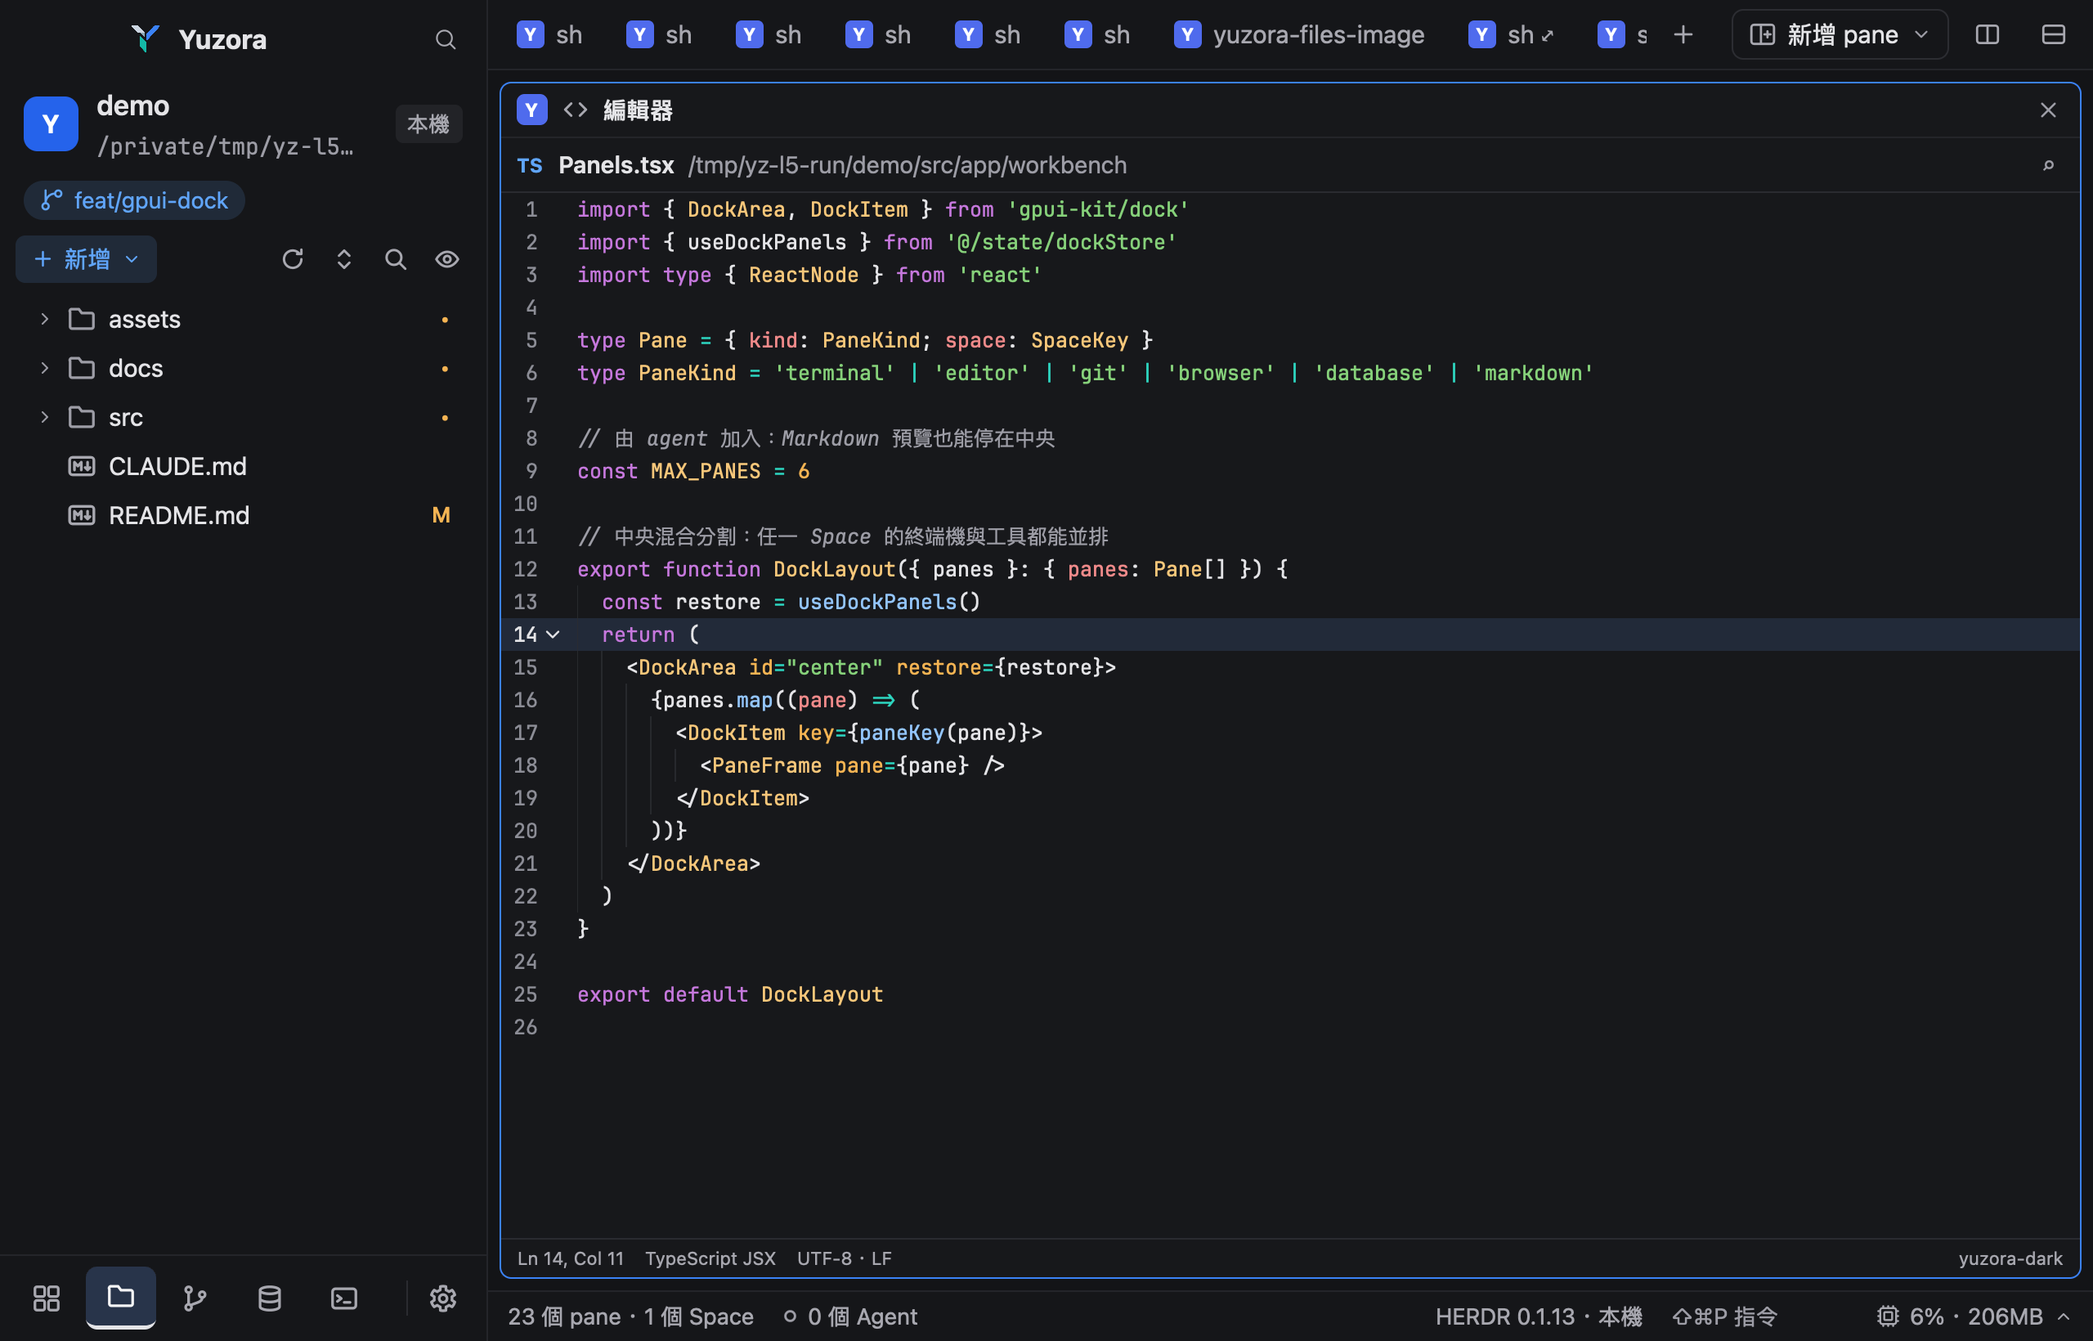
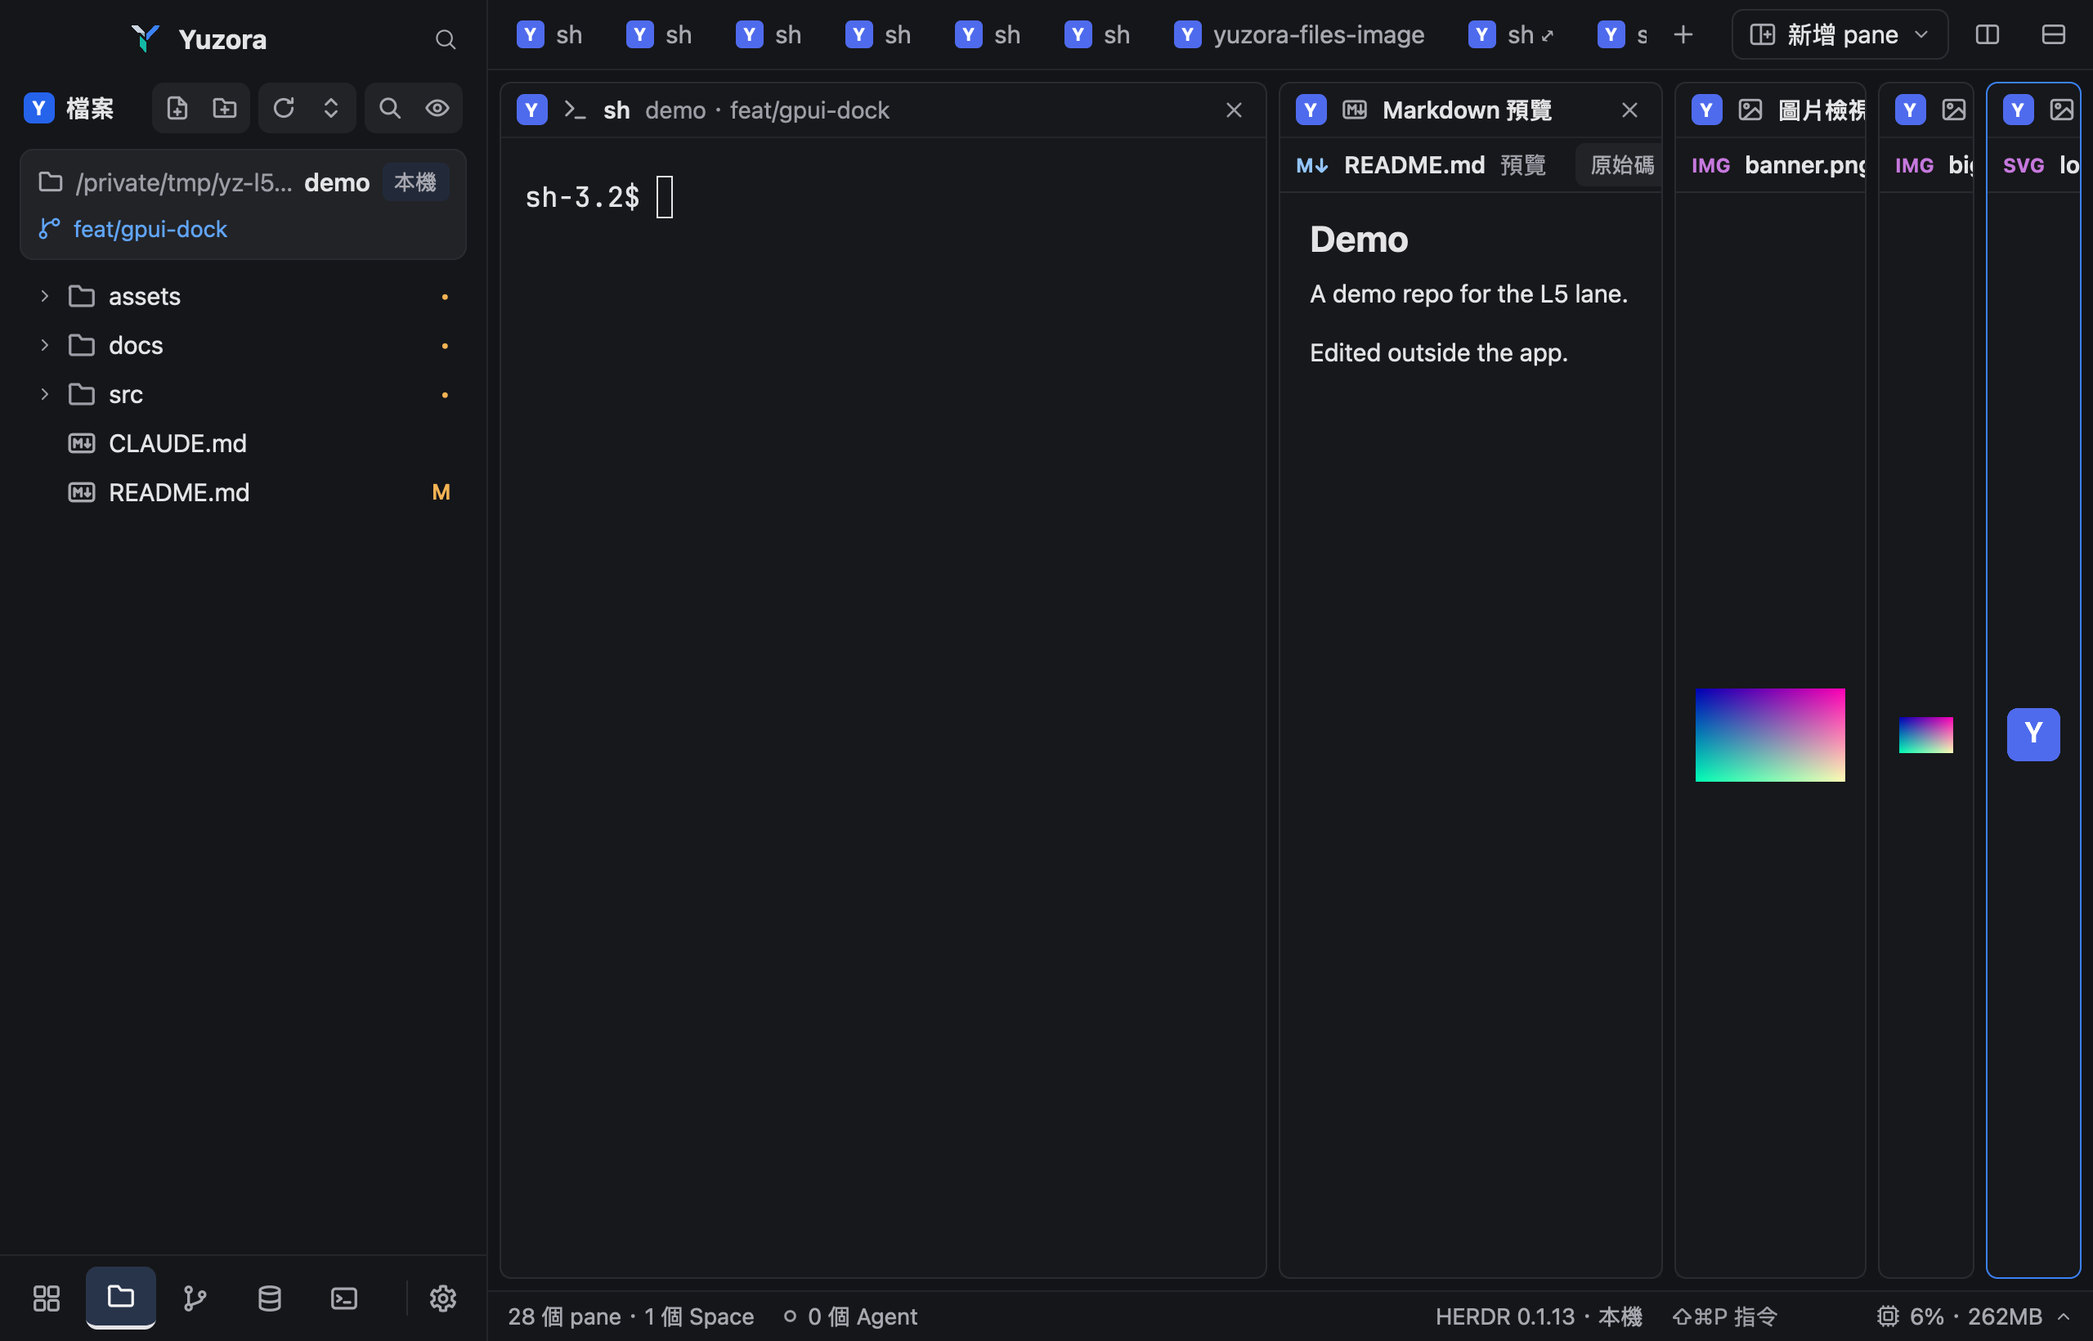
feat(yuzora-files): head the Files sidebar with a path card
B1 replaces design D (93853ce3): the actions join the title row and the
folder sits in a card below it.

- Title row: the 16px Space badge and "Files" (truncated first when the
  sidebar narrows), then six 24px icon buttons in three raised pairs:
  new file | new folder, refresh | collapse, search | hidden files. No
  background until hovered; a toggle that is on is selected. On another
  machine new file and new folder are disabled and the tooltip says
  remote is read-only in this version.
- Path card (raised, 1px border, radius 7): folder icon, the folder
  above (dim, ending in its separator, shrinks first) and the folder's
  name (semibold), the Local/machine chip on hover; the branch in the
  accent on a second line, gone without a branch. paths.js heading()
  now returns dir with its trailing separator.
- No new token: D's accent_soft is removed. both_yuzora_themes_read_at_
  wcag_aa checks the card's text explicitly (dim, foreground and accent
  on raised; muted on hover).
- i18n back to title, action.new_file and action.new_folder; D's
  action.new is gone.

Evidence l5-20 (dark) and l5-21 (light), retaken.

diff --git a/app/defaults/mods/yuzora-sidebar-files/main.js b/app/defaults/mods/yuzora-sidebar-files/main.js
@@ -3,7 +3,7 @@
 // The same mod opens itself as the right-click popup (props().menu).
 import { View, div, svg, uniform_list } from "gpui-kit";
 import { v_flex, h_flex, InputState, Input, Scrollbar } from "gpui-base";
-import { spaces, panes, focused, theme, settings, run, home, props, openOverlay, closeOverlay, shared, setShared, notify, watchFolder, window } from "herdr";
+import { spaces, panes, focused, theme, run, home, props, openOverlay, closeOverlay, shared, setShared, notify, watchFolder, window } from "herdr";
 import { t, tokens } from "yuzora:core";
 import { listDir, gitStatus, createFile, createFolder, rename, trash, reveal, copyText, findFiles, grep, unsavedCount } from "yuzora:files";
 import { openFile, moved, join, parent, base, rel } from "./open.js";
@@ -326,50 +326,51 @@ export default class FilesSidebar extends View {
     const badges = tk.space_badges ?? ["#4f6bed"];
     const badgeBg = space ? badges[(space.index - 1) % badges.length] : badges[0];
     const local = !here?.on;
-    // The folder's name over the folder it's in; "~" only on this machine.
-    const head = here?.root ? heading(here.root, local ? home() : null, here.branch) : null;
-    const mono = String(settings().font_family ?? "");
-    // Icon buttons: no background until hovered; a toggle that's on is selected.
-    const action = (id, icon, label, onClick, on = false) =>
-      div().id(id).w(24).h(24).flex().items_center().justify_center().rounded(5).flex_none().cursor_pointer()
-        .bg(on ? th.selected : "#00000000").text_color(on ? th.foreground : th.muted)
-        .hover(s => s.bg(on ? th.selected : th.hover).text_color(th.foreground)).on_click(onClick)
+    // Icon buttons in pairs on a raised strip: no background until hovered; a toggle that's on is selected.
+    const action = (id, icon, label, onClick, on = false, enabled = true) =>
+      div().id(id).w(24).h(24).flex().items_center().justify_center().rounded(5).flex_none()
+        .bg(on ? th.selected : "#00000000").text_color(enabled ? (on ? th.foreground : th.muted) : th.dim)
+        .when(enabled, el => el.cursor_pointer().hover(s => s.bg(on ? th.selected : th.hover).text_color(th.foreground)).on_click(onClick))
         .tooltip(label)
         .child(svg(`mods/${ME}/icons/${icon}.svg`).size(14));
-    // New file or folder, in the accent; off on another machine (read-only there).
+    const pair = (a, b) => h_flex().flex_none().p(1).rounded(6).bg(th.raised).child(a).child(b);
+    // New files and folders: off on another machine (read-only there), which the tooltip says.
     const canAdd = local && Boolean(here?.root);
-    const add = h_flex().id("new").h(24).px(8).gap(5).flex_none().items_center().rounded(5).text_size(12)
-      .when(canAdd, el => el.bg(tk.accent_soft).text_color(th.accent).cursor_pointer().hover(s => s.bg(th.selected))
-        .on_click(() => this.openNewMenu()))
-      .when(!canAdd, el => el.text_color(th.dim))
-      .when(!local, el => el.tooltip(t("remote.readonly")))
-      .child(svg("mods/workspace-chrome/plus.svg").size(12).flex_none())
-      .child(t("action.new"))
-      .child(svg("mods/workspace-chrome/chevron-down.svg").size(10).flex_none());
+    const addTip = label => (local ? label : t("remote.readonly"));
+    // The folder above (shrinks first) and the folder's own name; "~" only on this machine.
+    const head = here?.root ? heading(here.root, local ? home() : null, here.branch) : null;
     return v_flex().id("root").size_full().min_h(0).bg(th.chrome).text_color(th.foreground).text_size(12.5)
-      .child(h_flex().flex_none().pt(2).px(12).gap(9).items_center()
-        .child(div().w(28).h(28).flex_none().rounded(7).bg(badgeBg).text_color(tk.text.on_badge).text_size(13).font_bold().flex().items_center().justify_center()
+      .child(h_flex().flex_none().pt(2).px(12).gap(6).items_center()
+        .child(div().w(16).h(16).flex_none().rounded(4).bg(badgeBg).text_color(tk.text.on_badge).text_size(10).font_bold().flex().items_center().justify_center()
           .child((space?.name ?? "?").slice(0, 1).toUpperCase()))
-        .child(v_flex().flex_1().min_w(0).gap(1)
-          .child(div().text_size(14).font_semibold().truncate().child(head?.name ?? ""))
-          .when(Boolean(head?.dir), el => el.child(div().text_size(11.5).when(Boolean(mono), d => d.font_family(mono)).text_color(th.dim).truncate().child(head.dir))))
-        .child(div().flex_none().px(6).py(1).rounded(4).bg(th.raised).text_size(11).text_color(th.muted)
-          .child(local ? t("local") : here.on)))
-      .when(Boolean(head?.branch), el => el.child(h_flex().flex_none().pt(8).px(12)
-        .child(h_flex().h(20).min_w(0).px(8).gap(5).items_center().rounded_full().bg(tk.accent_soft).text_color(th.accent).text_size(11.5)
+        .child(div().flex_1().min_w(0).truncate().font_semibold().child(t("title")))
+        .child(h_flex().flex_none().gap(4)
+          .child(pair(
+            action("new-file", "new-file", addTip(t("action.new_file")), (_e, cx) => this.startEdit("new-file", null, this.selectedDir(), cx), false, canAdd),
+            action("new-folder", "new-folder", addTip(t("action.new_folder")), (_e, cx) => this.startEdit("new-folder", null, this.selectedDir(), cx), false, canAdd)))
+          .child(pair(
+            action("refresh", "refresh", t("action.refresh"), (_e, cx) => { this.reload(cx); cx.notify(); }),
+            action("collapse", "collapse", t("action.collapse"), (_e, cx) => this.collapse(cx))))
+          .child(pair(
+            action("search", "search", t("action.search"), (_e, cx) => this.toggleSearch(cx), this.searching),
+            action("hidden", "eye", t("action.hidden"), (_e, cx) => {
+              this.hidden = !this.hidden; localStorage.setItem("hidden", this.hidden ? "1" : "0"); this.version++;
+              if (this.searching) this.search(cx);
+              cx.notify();
+            }, this.hidden)))))
+      .when(Boolean(head), el => el.child(v_flex().flex_none().mt(8).mx(10).mb(6).py(6).px(8).gap(4).rounded(7)
+        .bg(th.raised).border_1().border_color(th.border)
+        .child(h_flex().gap(6).items_center().min_w(0)
+          .child(svg(`mods/${ME}/icons/files/folder.svg`).size(14).flex_none().text_color(th.muted))
+          .child(h_flex().flex_1().min_w(0).items_center()
+            .when(Boolean(head.dir), row => row.child(div().min_w(0).flex_shrink(100).truncate().text_color(th.dim).child(head.dir)))
+            .child(div().min_w(0).truncate().font_semibold().child(head.name)))
+          .child(div().flex_none().px(6).py(1).rounded(4).bg(th.hover).text_size(11).text_color(th.muted)
+            .child(local ? t("local") : here.on)))
+        .when(Boolean(head.branch), card => card.child(h_flex().gap(6).items_center().min_w(0).text_size(11.5).text_color(th.accent)
           .child(svg("mods/workspace-chrome/git-branch.svg").size(13).flex_none())
-          .child(div().min_w(0).truncate().child(head.branch)))))
-      .child(h_flex().flex_none().gap(2).px(8).pt(8).pb(6).items_center()
-        .child(add)
-        .child(div().flex_1())
-        .child(action("refresh", "refresh", t("action.refresh"), (_e, cx) => { this.reload(cx); cx.notify(); }))
-        .child(action("collapse", "collapse", t("action.collapse"), (_e, cx) => this.collapse(cx)))
-        .child(action("search", "search", t("action.search"), (_e, cx) => this.toggleSearch(cx), this.searching))
-        .child(action("hidden", "eye", t("action.hidden"), (_e, cx) => {
-          this.hidden = !this.hidden; localStorage.setItem("hidden", this.hidden ? "1" : "0"); this.version++;
-          if (this.searching) this.search(cx);
-          cx.notify();
-        }, this.hidden)))
+          .child(div().min_w(0).truncate().child(head.branch))))))
+      .when(!head, el => el.child(div().h(6).flex_none()))
       .when(Boolean(this.edit), el => el.child(this.renderEdit(th)))
       .child(this.searching ? this.renderSearch(th) : this.renderTree(th, tk));
   }
@@ -453,12 +454,6 @@ export default class FilesSidebar extends View {
         .child(Scrollbar.vertical("results").absolute().inset_0()));
   }
 
-  // The New button's popup: a file or a folder, where a right-click's New would put it.
-  openNewMenu() {
-    const here = this.here;
-    openOverlay({ mod: ME, kind: "popup", width: 200, props: { menu: { kind: "new", root: here.root, on: here.on, dir: this.selectedDir() } } });
-  }
-
   // The right-click popup.
 
   openMenu(r, e, cx) {
@@ -470,16 +465,13 @@ export default class FilesSidebar extends View {
       props: { menu: { abs: this.abs(r), rel: r, dir: row.dir, root: this.here.root, on: this.here.on } } });
   }
 
-  // As tall as its rows: nothing in it waits for a height to fill (the New
-  // menu opens with none).
   renderMenu(cx) {
-    const th = theme(), m = this.menu, items = m.kind === "new" ? newItems(m) : menuItems(m);
-    return v_flex().id("menu").w_full().p(6).gap(0).bg(th.popover).text_color(th.foreground).text_size(12.5)
+    const th = theme(), m = this.menu, items = menuItems(m);
+    return v_flex().id("menu").size_full().p(6).gap(0).bg(th.popover).text_color(th.foreground).text_size(12.5)
       .children(items.map((it, i) => it
         ? h_flex().id(`item-${i}`).h(28).px(8).rounded(5).items_center().gap(8)
           .text_color(it.enabled === false ? th.dim : it.danger ? th.ansi1 : th.foreground)
           .when(it.enabled !== false, el => el.cursor_pointer().hover(s => s.bg(th.hover)).on_click((_e, cx) => { closeOverlay(props().overlay); it.run(); }))
-          .when(Boolean(it.icon), el => el.child(svg(`mods/${ME}/icons/${it.icon}.svg`).size(14).flex_none().text_color(th.muted)))
           .child(div().flex_1().child(it.label))
         : div().h(1).my(4).mx(4).bg(th.border)));
   }
@@ -494,15 +486,7 @@ function revealLabel() {
   return t(p === "macos" ? "menu.reveal_mac" : p === "windows" ? "menu.reveal_windows" : "menu.reveal");
 }
 
-// The New menu's items: in the folder it was opened for.
-function newItems(m) {
-  return [
-    { label: t("menu.new_file"), icon: "new-file", run: () => request("new-file", m, { dir: m.dir }) },
-    { label: t("menu.new_folder"), icon: "new-folder", run: () => request("new-folder", m, { dir: m.dir }) },
-  ];
-}
-
-// The popup's items for a row: { label, run, enabled?, danger?, icon? }, null a divider.
+// The popup's items for a row: { label, run, enabled?, danger? }, null a divider.
 function menuItems(m) {
   const local = !m.on, folder = m.dir ? m.abs : parent(m.abs);
   const relPath = rel(m.root, m.abs) ?? m.abs;

diff --git a/app/defaults/mods/yuzora-sidebar-files/paths.js b/app/defaults/mods/yuzora-sidebar-files/paths.js
@@ -20,15 +20,19 @@ export const rel = (root, path) => {
   return path.startsWith(prefix) ? path.slice(prefix.length) : null;
 };
 /**
- * The sidebar's heading for `root`: `name` (the folder's own name) over `dir`
- * (the folder it is in, "~" for the home folder), and `branch` (null for
- * none). `home` is this machine's home: give null for another machine's path.
- * The home folder itself is "~"; a root ("/", "C:\") is its own name.
+ * The sidebar's heading for `root`: `dir`, the folder it is in ending in its
+ * separator ("~/" and so on for the home folder), then `name`, the folder's
+ * own; `branch` is null for none. `home` is this machine's home: give null
+ * for another machine's path. The home folder itself is "~" and a root ("/",
+ * "C:\") its own name, with no `dir`.
  */
 export const heading = (root, home, branch) => {
   const under = p => home && (p === home || p.startsWith(home + "/") || (windows(home) && p.startsWith(home + "\\")));
   const tilde = p => (under(p) ? "~" + p.slice(home.length) : p);
   const dir = parent(root);
   const name = home && root === home ? "~" : !dir || dir === root ? root : base(root);
-  return { name, dir: name === root || name === "~" ? "" : tilde(dir), branch: branch || null };
+  if (name === root || name === "~") return { name, dir: "", branch: branch || null };
+  const above = tilde(dir);
+  const sep = /[\\/]$/.test(above) ? "" : windows(root) && !root.includes("/") ? "\\" : "/";
+  return { name, dir: above + sep, branch: branch || null };
 };

diff --git a/app/crates/yuzora-files/src/lib.rs b/app/crates/yuzora-files/src/lib.rs
@@ -690,43 +690,49 @@ mod tests {
     fn sidebar_heading_splits_the_folder_name_from_where_it_is() {
         let src = include_str!("../../../defaults/mods/yuzora-sidebar-files/paths.js")
             .replace("export const", "const");
-        // (root, this machine's home, branch) → (name, dir, branch).
+        // (root, this machine's home, branch) → (name, dir ending in its separator, branch).
         let cases = [
             (
                 ("/Users/me/App/yuzora", Some("/Users/me"), Some("main")),
-                ("yuzora", "~/App", Some("main")),
+                ("yuzora", "~/App/", Some("main")),
             ),
             (
                 ("/Users/me/proj", Some("/Users/me"), Some("feat/x")),
-                ("proj", "~", Some("feat/x")),
+                ("proj", "~/", Some("feat/x")),
             ),
             (
                 ("/opt/src/tool", Some("/Users/me"), None),
-                ("tool", "/opt/src", None),
+                ("tool", "/opt/src/", None),
             ),
+            (("/srv", Some("/Users/me"), None), ("srv", "/", None)),
             // Not in a repo, or no branch name: no branch.
             (
                 ("/Users/me/notes", Some("/Users/me"), Some("")),
-                ("notes", "~", None),
+                ("notes", "~/", None),
             ),
             // The home folder itself, and a root, have nothing above them shown.
             (("/Users/me", Some("/Users/me"), None), ("~", "", None)),
             (("/", Some("/Users/me"), None), ("/", "", None)),
             (
                 ("/Users/meow/x", Some("/Users/me"), None),
-                ("x", "/Users/meow", None),
+                ("x", "/Users/meow/", None),
             ),
             // Another machine's path: never "~", whatever this machine's home is.
             (
                 ("/home/me/repo", None, Some("dev")),
-                ("repo", "/home/me", Some("dev")),
+                ("repo", "/home/me/", Some("dev")),
             ),
-            (("/home/me", None, None), ("me", "/home", None)),
+            (("/home/me", None, None), ("me", "/home/", None)),
             // Windows, with either slash.
             (
                 (r"C:\Users\me\src\app", Some(r"C:\Users\me"), None),
-                ("app", r"~\src", None),
+                ("app", r"~\src\", None),
             ),
+            (
+                (r"C:\app", Some(r"C:\Users\me"), None),
+                ("app", r"C:\", None),
+            ),
+            (("C:/work/app", None, None), ("app", "C:/work/", None)),
             (
                 (r"C:\Users\me", Some(r"C:\Users\me"), None),
                 ("~", "", None),

diff --git a/app/crates/yuzora-core/src/tokens.rs b/app/crates/yuzora-core/src/tokens.rs
@@ -86,7 +86,6 @@ mod tests {
                 assert!(is_hex(&t["sql"][k]), "sql.{k}");
             }
             assert!(t["space_badges"].as_array().is_some_and(|l| !l.is_empty() && l.iter().all(is_hex)));
-            assert!(is_hex(&t["accent_soft"]), "accent_soft");
             for k in ["working", "blocked", "done", "idle", "unknown"] {
                 assert!(is_hex(&t["status"][k]["color"]), "status.{k}");
                 assert!(t["status"][k]["shape"].is_string(), "status.{k}.shape");
@@ -187,9 +186,11 @@ mod tests {
                     assert!(contrast(&s("database", k), &c(bg)) >= 3.0, "light={light}: database.{k} on {bg}");
                 }
             }
-            // Accent text on its soft background: the Files sidebar's branch and New button.
-            let r = contrast(&c("accent"), t["accent_soft"].as_str().unwrap());
-            assert!(r >= 4.5, "light={light}: accent on accent_soft is {r:.2}");
+            // The Files sidebar's path card: the folder's place, name and branch on raised, the machine chip on hover.
+            for (fg, bg) in [("dim", "raised"), ("foreground", "raised"), ("accent", "raised"), ("muted", "hover")] {
+                let r = contrast(&c(fg), &c(bg));
+                assert!(r >= 4.5, "light={light}: path card {fg} on {bg} is {r:.2}");
+            }
             for b in t["space_badges"].as_array().unwrap() {
                 assert!(contrast(t["text"]["on_badge"].as_str().unwrap(), b.as_str().unwrap()) >= 4.5, "badge {b}");
             }
